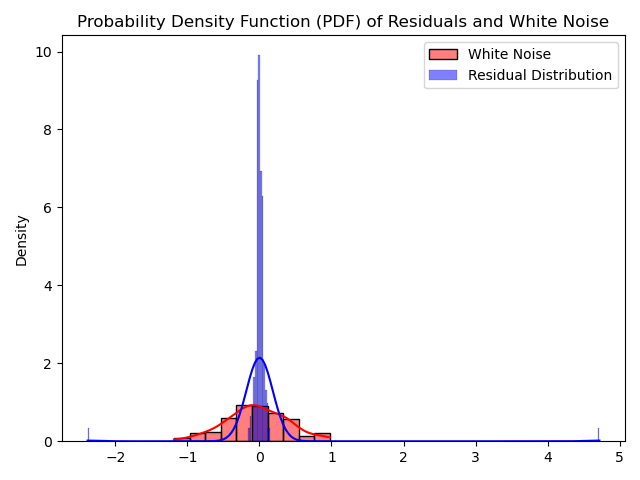
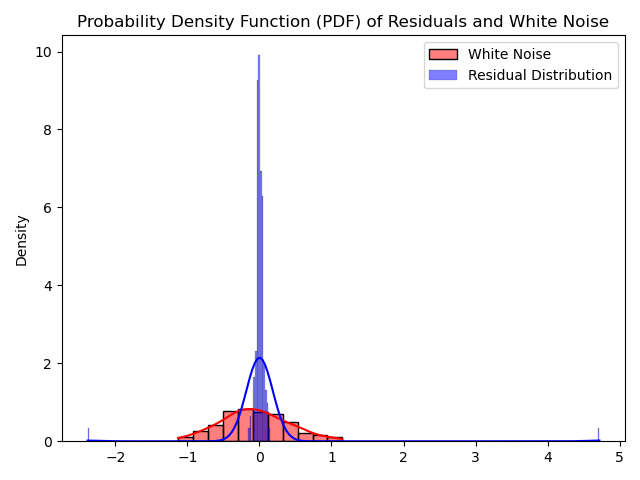
Updated README.md

Changed region(s): [[0.2812, 0.8438, 0.5312, 0.9375]]

diff --git a/.ipynb_checkpoints/README-checkpoint.md b/.ipynb_checkpoints/README-checkpoint.md
@@ -1,8 +1,24 @@
 # **Time-Series Forecasting of Monthly Passenger Counts with Full Residual Diagnostics**
+## **Project Overview**
+This project demonstrates the use of **SARIMA (Seasonal ARIMA)** to forecast monthly airline passenger counts using the classical publicly available **Airline Passenger Dataset**. The project covers data cleaning, visualization, stationarity analysis, model fitting, and forecast with evaluation.
 ## **Problem Description**
 
-## **Dataset Description**
+## **Dataset**
+Name: Airline Passenger Dataset
+Source: 
+Frequency: Monthly
+### **Description**
+Records the number of passengers travelling each month
+Exhibits trend and seasonality (Periodicity of 12 months)
 
+## **Project Goals**
+1. Perform data preprocessing and make it ready for exploratory data analysis (EDA)
+2. Explore and visualize the time-series
+3. Perform stationarity checks and apply differencing if needed
+4. Fit a **SARIMA model** to capture trend and seasonality
+5. Forecast future passenger counts for the next **15 months**
+6. Compare predictions with actual values and evaluate model performance using metrics such as **RMSE, MAE, MSE, and MAPE**
+7. Perform residual analysis to validate reliability of forecasts
 ## **Methodology**
 
 ## **Results (Performance Metrics)**

diff --git a/README.md b/README.md
@@ -1,8 +1,24 @@
 # **Time-Series Forecasting of Monthly Passenger Counts with Full Residual Diagnostics**
+## **Project Overview**
+This project demonstrates the use of **SARIMA (Seasonal ARIMA)** to forecast monthly airline passenger counts using the classical publicly available **Airline Passenger Dataset**. The project covers data cleaning, visualization, stationarity analysis, model fitting, and forecast with evaluation.
 ## **Problem Description**
 
-## **Dataset Description**
+## **Dataset**
+Name: Airline Passenger Dataset
+Source: 
+Frequency: Monthly
+### **Description**
+Records the number of passengers travelling each month
+Exhibits trend and seasonality (Periodicity of 12 months)
 
+## **Project Goals**
+1. Perform data preprocessing and make it ready for exploratory data analysis (EDA)
+2. Explore and visualize the time-series
+3. Perform stationarity checks and apply differencing if needed
+4. Fit a **SARIMA model** to capture trend and seasonality
+5. Forecast future passenger counts for the next **15 months**
+6. Compare predictions with actual values and evaluate model performance using metrics such as **RMSE, MAE, MSE, and MAPE**
+7. Perform residual analysis to validate reliability of forecasts
 ## **Methodology**
 
 ## **Results (Performance Metrics)**